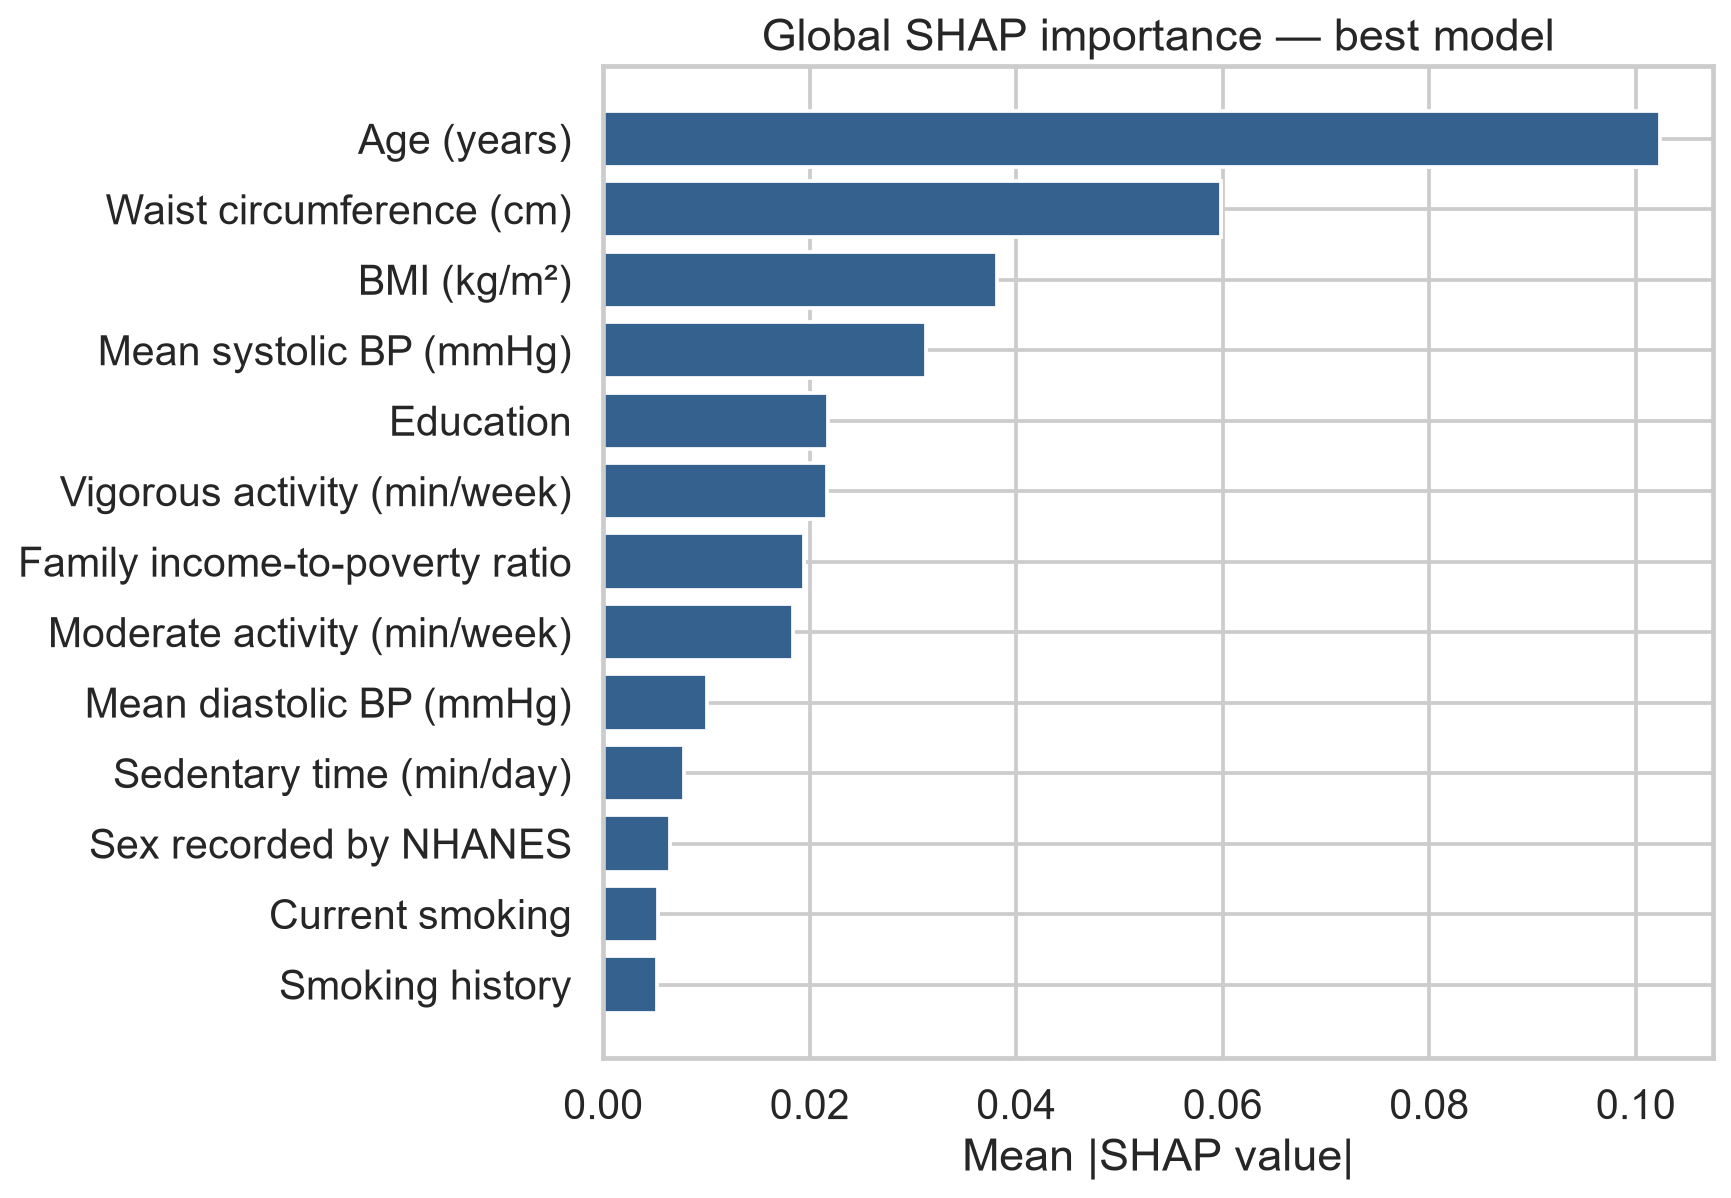
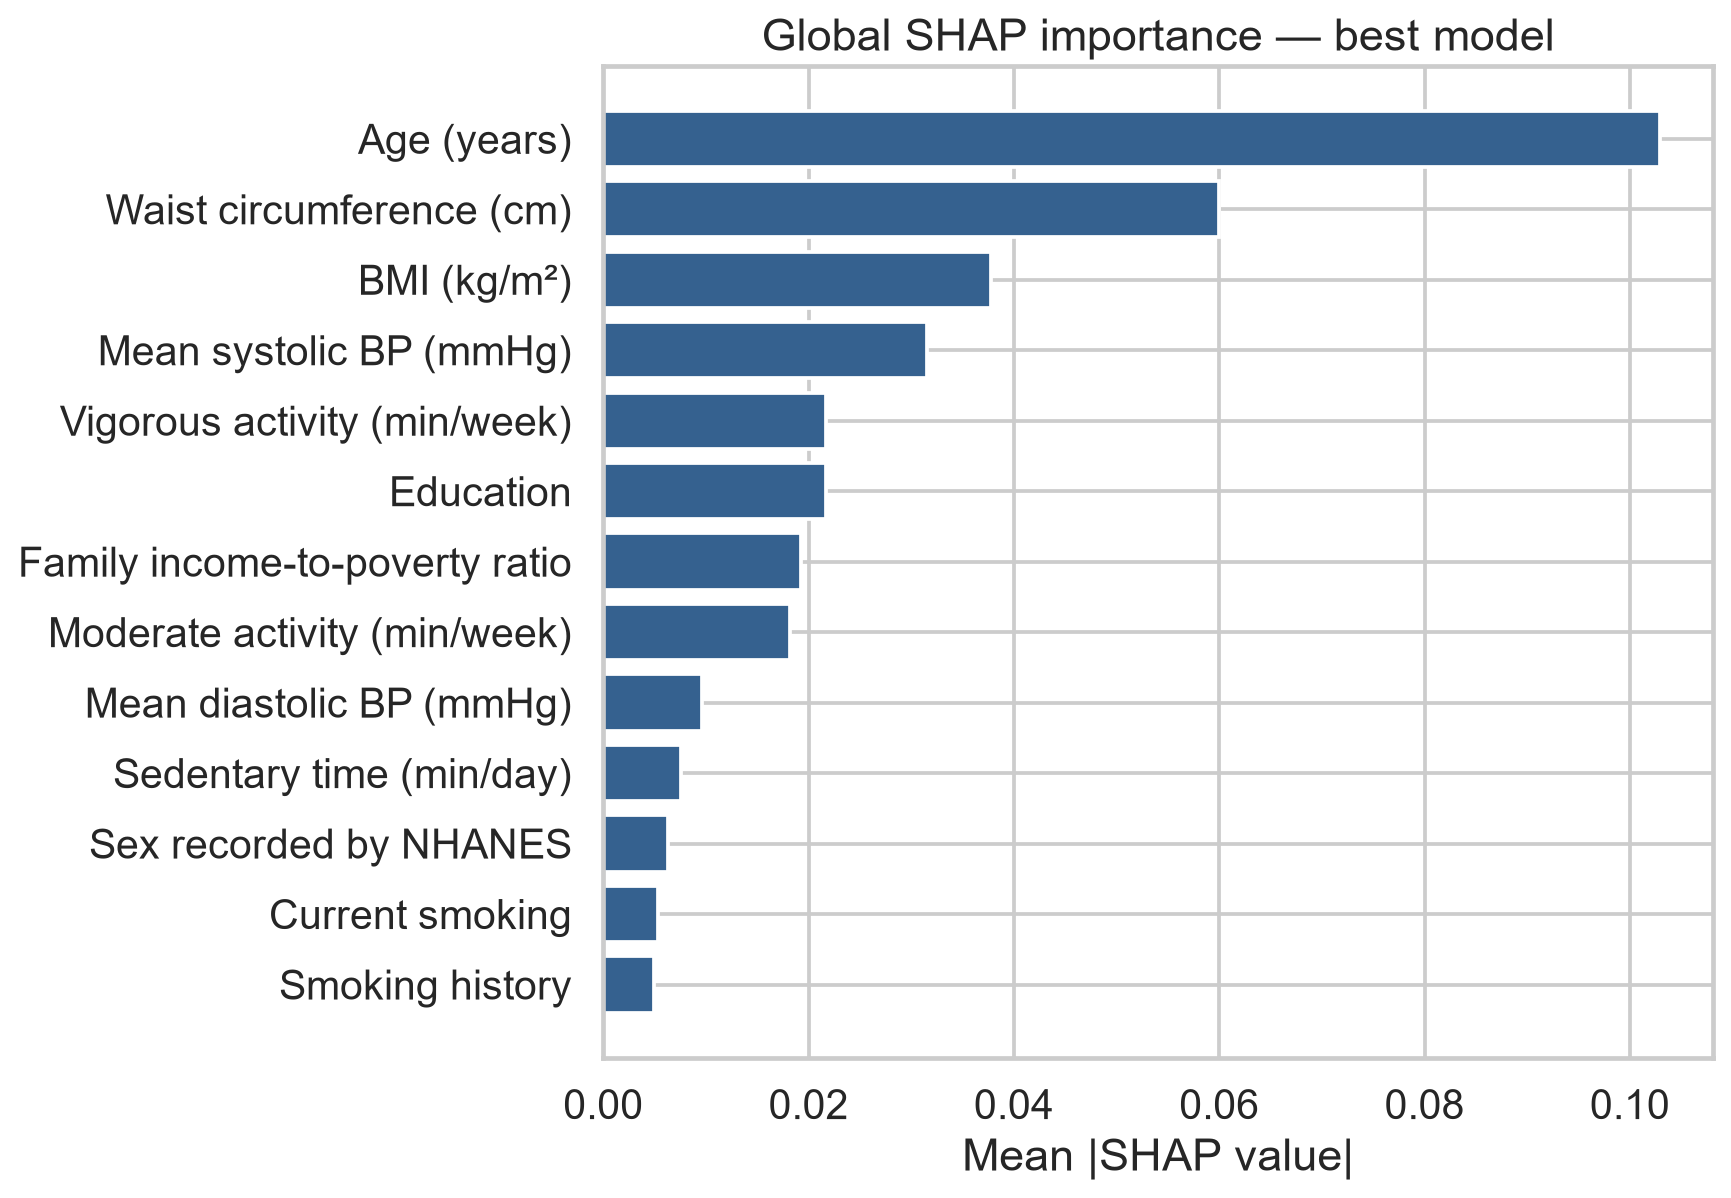
change in video plan

diff --git a/docs/VIDEO_SCRIPT.md b/docs/VIDEO_SCRIPT.md
@@ -1,7 +1,4 @@
 # Three-minute pitch and live-demo script
-
-This script follows the faculty's required timing exactly and uses the final full-run results.
-
 ## 0:00–0:35 — problem and beneficiaries
 
 “Prediabetes and diabetes can remain unnoticed until complications develop. In clinics with limited laboratory capacity, universal HbA1c testing may be difficult. Our Mission Health project screens adults older than 18 for current elevated HbA1c so healthcare workers can prioritize confirmatory testing. The beneficiaries are adults needing early follow-up and clinics allocating limited tests. This is a screening-support prototype, not a diagnosis.”
